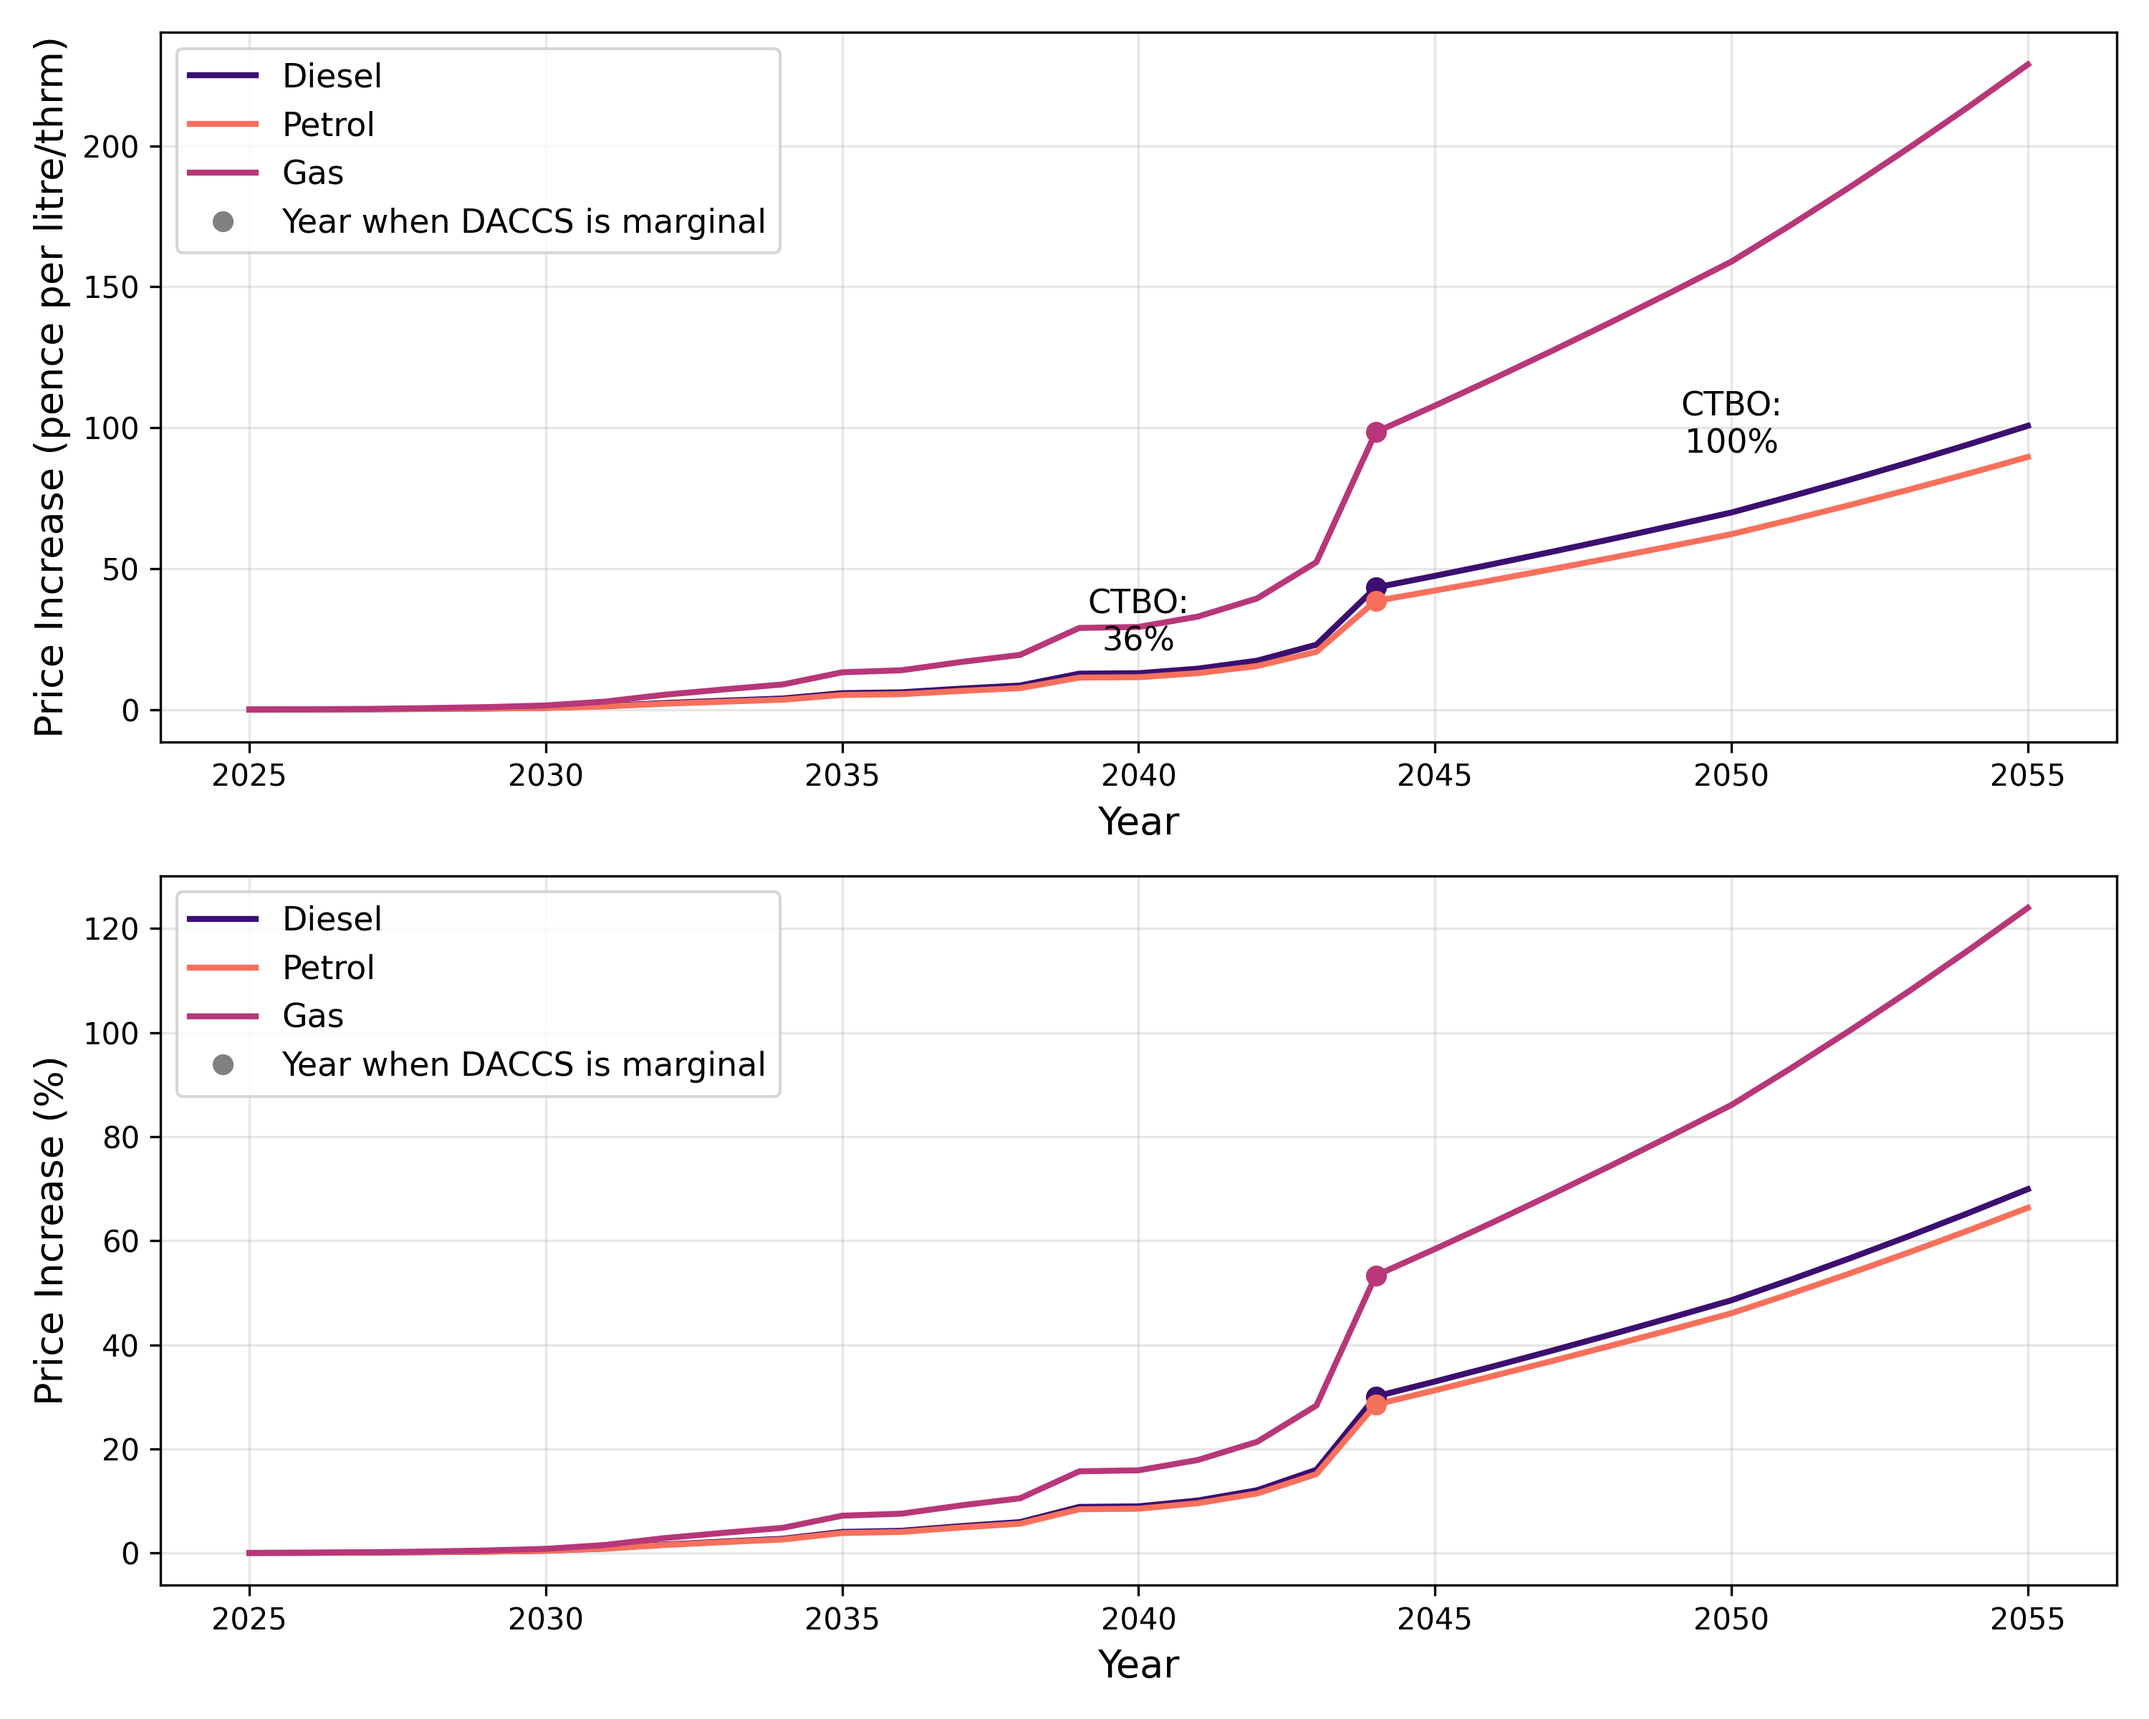
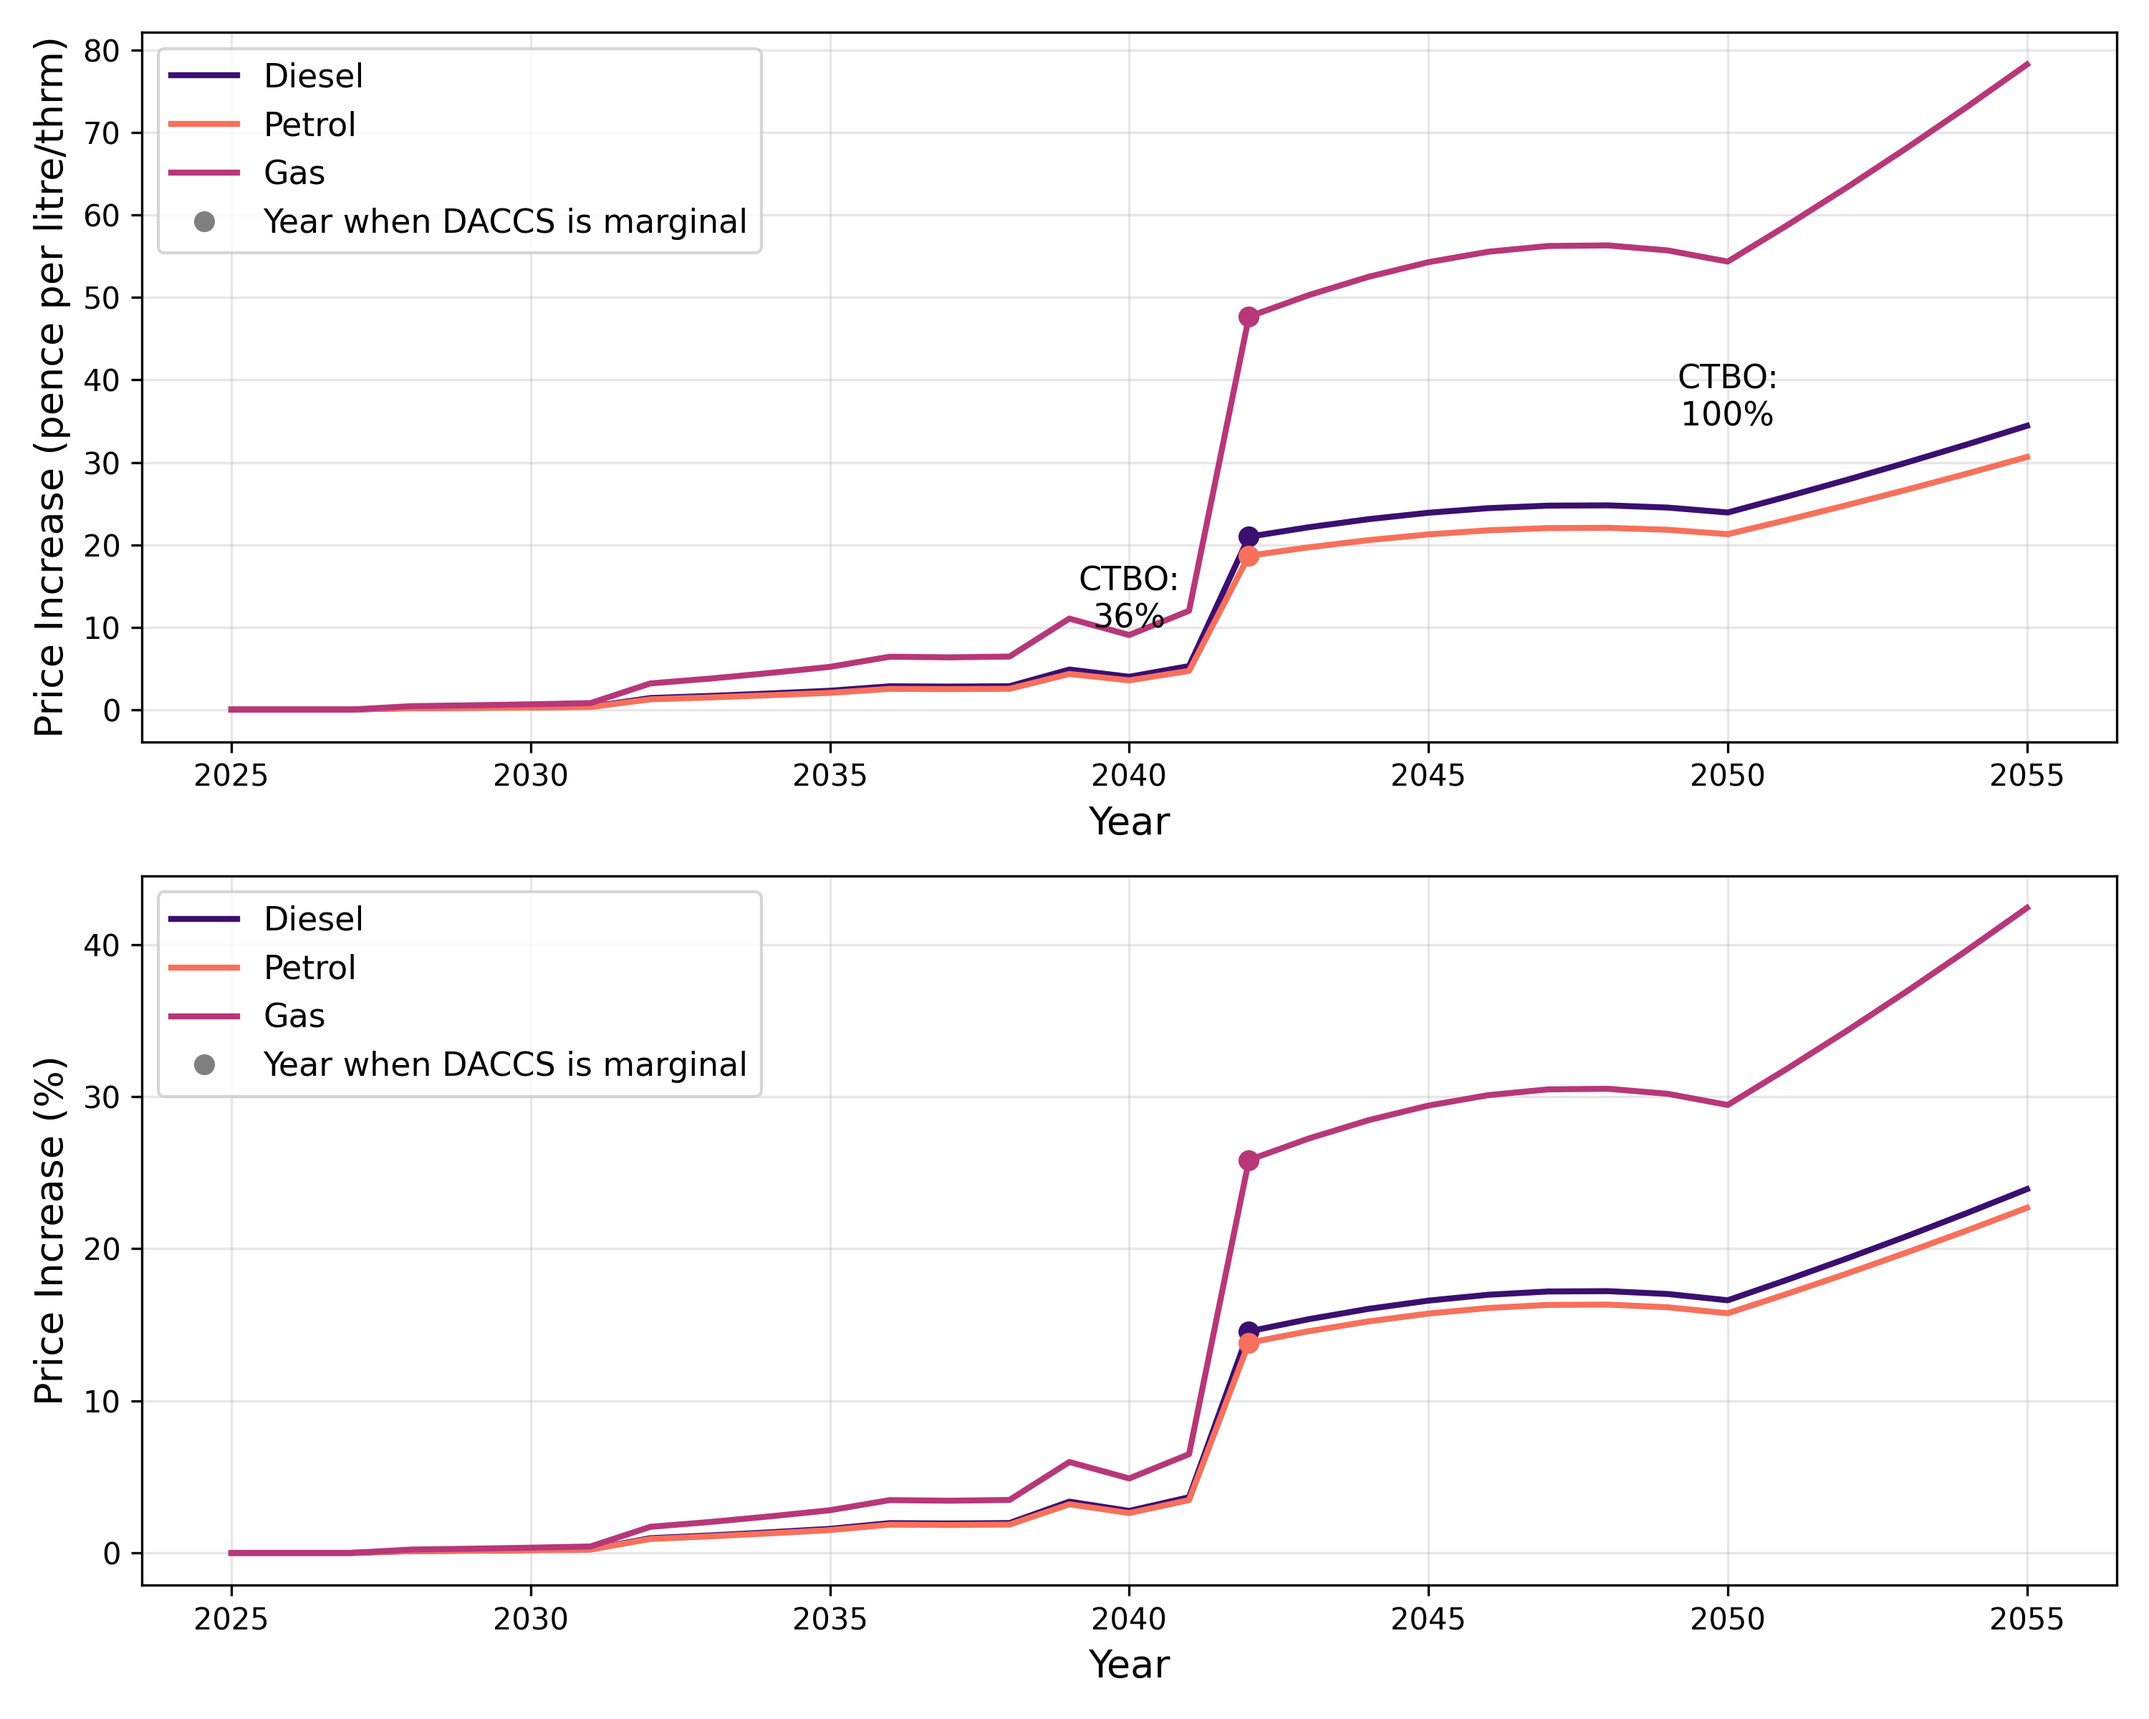
Tests

diff --git a/ctbo_multiple.py b/ctbo_multiple.py
@@ -274,7 +274,7 @@ def simulate_ctbo(
     END_YEAR=2055,                  # [year] Simulation end year
     baseline_emissions=None,        # dict: {coal, oil, gas} in [MtCO2/yr]
     DIFFUSE_START_FRACTION=1.0,     # [-] Fraction of diffuse emissions at START_YEAR (0-1)
-    DIFFUSE_END_FRACTION=0.20,      # [-] Fraction of diffuse emissions at DIFFUSE_TARGET_YEAR (0-1)
+    DIFFUSE_END_FRACTION=0.40,      # [-] Fraction of diffuse emissions at DIFFUSE_TARGET_YEAR (0-1)
     DIFFUSE_TARGET_YEAR=2050,       # [year] Target year for diffuse emissions reduction
     DISCOUNT_RATE=0.035,            # [-] Real discount rate for NPV calculations (0-1)
     USE_INVESTMENT_YEAR_AS_BASE=False,  # [-] bool: NPV base year = investment year vs START_YEAR
@@ -624,7 +624,52 @@ def simulate_ctbo(
     
     # Create MACC dataframes
     results_df = pd.DataFrame(results)
-    
+
+    # The plant named "Padeswood-cement" should have total_4OAK = 0
+    if "Padeswood-cement" in results_df['site-stack'].values:
+        print("Added Padeswood-cement that received subsidies and has zero abatement cost")
+        padeswood_cement_idx = results_df[results_df['site-stack'] == 'Padeswood-cement'].index[0]
+        results_df.loc[padeswood_cement_idx, 'total_4OAK'] = 0
+        results_df.loc[padeswood_cement_idx, 'total_FOAK'] = 0
+
+    # Add a new, free W2E plant named "Protos-W2E" at 370 ktCO2/yr zero cost (subsidized)
+    result_protos = create_result_entry(
+        site_stack='Protos-W2E',
+        annual_CO2=370 * 1000 / capture_rate,   # [tCO2/yr] baseline (function divides by 1000)
+        biogenic=1 - w2e_config['fossil_fraction'],                           # 100% biogenic
+        captured_CO2f=370 * w2e_config['fossil_fraction'],                        # [ktCO2/yr] fossil captured
+        captured_CO2bio=370 * (1 - w2e_config['fossil_fraction']),                # [ktCO2/yr] biogenic captured
+        residual_CO2f=370*(1-capture_rate),                        # [ktCO2/yr] residual fossil
+        FLH=FLH_w2e,                            # [h/yr] full load hours
+        CAPEX_4OAK=0,                           # [EUR/tCO2] zero cost (subsidized)
+        CAPEX_FOAK=0,
+        OPEXE=0,
+        OPEX_fixed=0,
+        transtorage=0,
+        distance_km=0
+    )
+    results_df = pd.concat([results_df, pd.DataFrame([result_protos])], ignore_index=True)
+    print(f"Added Protos that captures {370 * w2e_config['fossil_fraction']} ktCO2f/yr and {370 * (1 - w2e_config['fossil_fraction'])} ktCO2bio/yr at a cost of {result_protos['total_4OAK']:.1f} EUR/tCO2")
+
+    # Add a new, free CCGT power plant named "Teeside-CCGT" at 1000 MW zero cost (subsidized)
+    result_teeside = create_result_entry(
+        site_stack='Teeside-CCGT',
+        annual_CO2=2000 * 1000 / capture_rate,  # [tCO2/yr] baseline (function divides by 1000)
+        biogenic=0,                             # 0% biogenic
+        captured_CO2f=2000,                     # [ktCO2/yr] fossil captured
+        captured_CO2bio=0,                      # [ktCO2/yr] biogenic captured
+        residual_CO2f=2000*(1-capture_rate),    # [ktCO2/yr] residual fossil
+        FLH=4000,                               # [h/yr] full load hours
+        CAPEX_4OAK=0,                           # [EUR/tCO2] zero cost (subsidized)
+        CAPEX_FOAK=0,
+        OPEXE=0,
+        OPEX_fixed=0,
+        transtorage=0,
+        distance_km=0
+    )
+    results_df = pd.concat([results_df, pd.DataFrame([result_teeside])], ignore_index=True)
+    print(f"Added Teeside that captures {result_teeside['captured_CO2f']} ktCO2f/yr at a cost of {result_teeside['total_4OAK']:.1f} EUR/tCO2")
+
     # 4OAK MACC
     results_df_4oak = results_df.sort_values('total_4OAK').copy()
     results_df_4oak['captured_total'] = results_df_4oak['captured_CO2f'] + results_df_4oak['captured_CO2bio']
@@ -997,7 +1042,6 @@ if __name__ == "__main__":
     years = results['years']
     ctbo_fraction = results['ctbo_fraction']
     ets_prices = results['ets_prices']
-    DACCS_costs = results['DACCS_costs']
     supplied_CO2_vec = results['supplied_CO2_vec']
     total_emissions_vec = results['total_emissions_vec']
     ctbo_mandate_vec = results['ctbo_mandate_vec']
@@ -1009,11 +1053,7 @@ if __name__ == "__main__":
     CTBO_cost_lev_vec = results['CTBO_cost_lev_vec']
     plant_results = results['plant_results']
     first_DACCS_year = results['first_DACCS_year']
-    pounds_to_EUR = results['pounds_to_EUR']
     fuels = results['fuels']
-    START_YEAR = results['START_YEAR']
-    DISCOUNT_RATE = results['DISCOUNT_RATE']
-    USE_INVESTMENT_YEAR_AS_BASE = results['USE_INVESTMENT_YEAR_AS_BASE']
     plant_npv = results['plant_npv']
     diesel_increase_abs = results['diesel_increase_abs']
     petrol_increase_abs = results['petrol_increase_abs']
@@ -1083,16 +1123,16 @@ if __name__ == "__main__":
     plt.figure(figsize=(10, 6))
     plt.stackplot(years, DACCS_capacity_vec, BECCS_capacity_vec, fCCS_capacity_vec,
                   labels=['DACCS', 'BECCS', 'Fossil CCS'],
-                  colors=[viridis(0.5), viridis(0.65), 'gray'],
-                  alpha=1.0)
-    plt.plot(years, supplied_CO2_vec, label='Supplied CO2 (O&G, coal, cem)', linewidth=2, color='black')
-    plt.plot(years, total_emissions_vec, label='Emitted CO2', linewidth=2, color=viridis(0.40))
+                  colors=[magma(0.30), magma(0.60), 'gray'],
+                  alpha=0.85)
+    plt.plot(years, supplied_CO2_vec, label='Supplied CO2 (O&G, coal, lime)', linewidth=2, color='black')
+    plt.plot(years, total_emissions_vec, label='Gross Emitted CO2', linewidth=2, color=magma(0.50))
     plt.plot(years, ctbo_mandate_vec, label='CTBO Mandate', linewidth=2, color='black', linestyle='--')
     
     if first_DACCS_year is not None:
         daccs_idx = np.where(years == first_DACCS_year)[0][0]
-        plt.plot(first_DACCS_year, DACCS_capacity_vec[daccs_idx], 'o', markersize=6, color=viridis(0.5))
-        plt.plot([], [], 'o', markersize=6, color=viridis(0.5), label='Year when DACCS is marginal')
+        plt.plot(first_DACCS_year, DACCS_capacity_vec[daccs_idx], 'o', markersize=6, color=magma(0.30))
+        plt.plot([], [], 'o', markersize=6, color=magma(0.30), label='Year when DACCS is marginal')
     
     plt.xlabel('Year', fontsize=13)
     plt.ylabel('ktCO2/yr', fontsize=13)

diff --git a/controller.py b/controller.py
@@ -29,16 +29,17 @@ if __name__ == "__main__":
         RealParameter("celc", 200, 300),                    # [EUR/MWh] Electricity cost
         RealParameter("cbio", 80, 160),                     # [EUR/MWh] Biomass fuel cost
         RealParameter("csteam", 3.0, 5.0),                  # [EUR/tsteam] Steam cost
-        RealParameter("amine_cost", 30, 60),                # [SEK/tCO2] Amine makeup cost
+        RealParameter("amine_cost", 30, 50),                # [SEK/tCO2] Amine makeup cost
         RealParameter("extra_transtorage", 20, 40),         # [EUR/tCO2] Transport & storage cost
         # Technology/cost uncertainties
         RealParameter("CEPCI_2025", 880, 980),              # [-] Chemical Engineering Plant Cost Index
-        RealParameter("FOAK_MULTIPLIER", 1.5, 2.0),         # [-] First-of-a-kind cost multiplier
+        RealParameter("NETL", 5.0, 6.0),                # [-] NETL methodology CAPEX multiplier
+        RealParameter("FOAK_MULTIPLIER", 1.75, 1.79),         # [-] First-of-a-kind cost multiplier
         RealParameter("discount_rate_ccs", 0.06, 0.12),     # [-] Discount rate for CCS
         RealParameter("capture_rate", 0.90, 0.95),          # [-] CO2 capture rate
         IntegerParameter("lifetime_ccs", 20, 30),           # [years] CCS project lifetime
         # Technical uncertainties
-        RealParameter("qreb", 3.0, 4.0),                    # [MJ/kgCO2] Reboiler heat duty
+        RealParameter("qreb", 2.5, 3.5),                    # [MJ/kgCO2] Reboiler heat duty
         RealParameter("pcompr", 0.30, 0.45),                # [MJ/kgCO2] Compression power
         RealParameter("fixed", 0.03, 0.05),                 # [-] Fixed OPEX fraction
         RealParameter("emission_factor_bio", 0.28, 0.38),   # [tCO2/MWhfuel] Biomass emission factor
@@ -59,7 +60,7 @@ if __name__ == "__main__":
     model.levers = [
         RealParameter("DIFFUSE_END_FRACTION", 0.10, 0.40),  # [-] Diffuse emissions target
         CategoricalParameter("ETS_SCENARIO", ["Low", "Medium", "High"]),
-        CategoricalParameter("USE_FOAK", [True, False]),
+        # CategoricalParameter("USE_FOAK", [True, False]),
     ]
 
     # Outcomes: metrics we want to track
@@ -83,10 +84,9 @@ if __name__ == "__main__":
     model.constants = [
         Constant("data", data),
         Constant("CTBO_ENABLED", True),
-
         Constant("CTBO_growth_factor", 0.4),
-        Constant("HALF", False), # NOTE, must be a constant otherwise EMA fails to save outcomes
-        # Constant("USE_FOAK", False),
+        Constant("HALF", True), # NOTE, must be a constant otherwise EMA fails to save outcomes
+        Constant("USE_FOAK", False),
 
         Constant("VERBOSE", False),
         Constant("debug", False),
@@ -98,7 +98,6 @@ if __name__ == "__main__":
         Constant("DIFFUSE_START_FRACTION", 1.0),
         Constant("DISCOUNT_RATE", 0.035),
         Constant("USE_INVESTMENT_YEAR_AS_BASE", False),
-        Constant("NETL", 5.509),
         Constant("CEPCI_2023", 798.7),
         Constant("sek_to_eur", 0.091),
         Constant("pounds_to_EUR", 1.15),
@@ -107,7 +106,7 @@ if __name__ == "__main__":
     ]
 
     n_scenarios = 20
-    n_policies = 20
+    n_policies = 10
 
     results = perform_experiments(
         model, 
@@ -132,8 +131,9 @@ if __name__ == "__main__":
         np.save(f"outcomes_{name}.npy", arr)
     
     # Save plant names reference (same for all runs, run once to get the list)
-    # Use same HALF setting as the experiments
-    test_result = simulate_ctbo(data, HALF=False, VERBOSE=False, debug=False)
+    # IMPORTANT: Must use same HALF setting as the experiments (line 88)
+    HALF_SETTING = True  # Must match Constant("HALF", ...) above
+    test_result = simulate_ctbo(data, HALF=HALF_SETTING, VERBOSE=False, debug=False)
     plant_names = test_result['plant_names']
     pd.DataFrame({'plant_index': range(len(plant_names)), 'plant_name': plant_names}).to_csv(
         "plant_names_reference.csv", index=False
